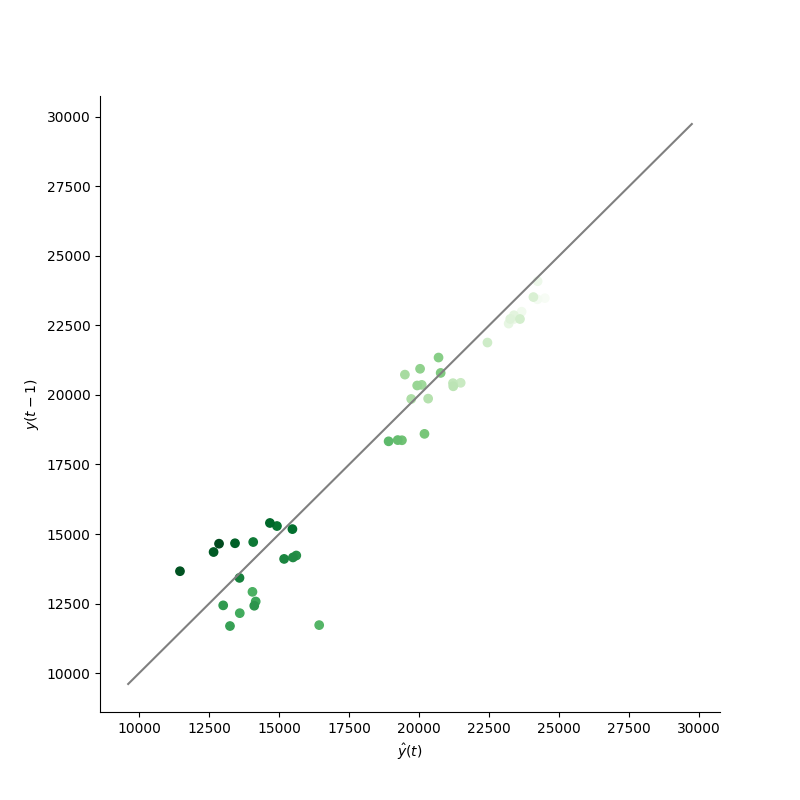
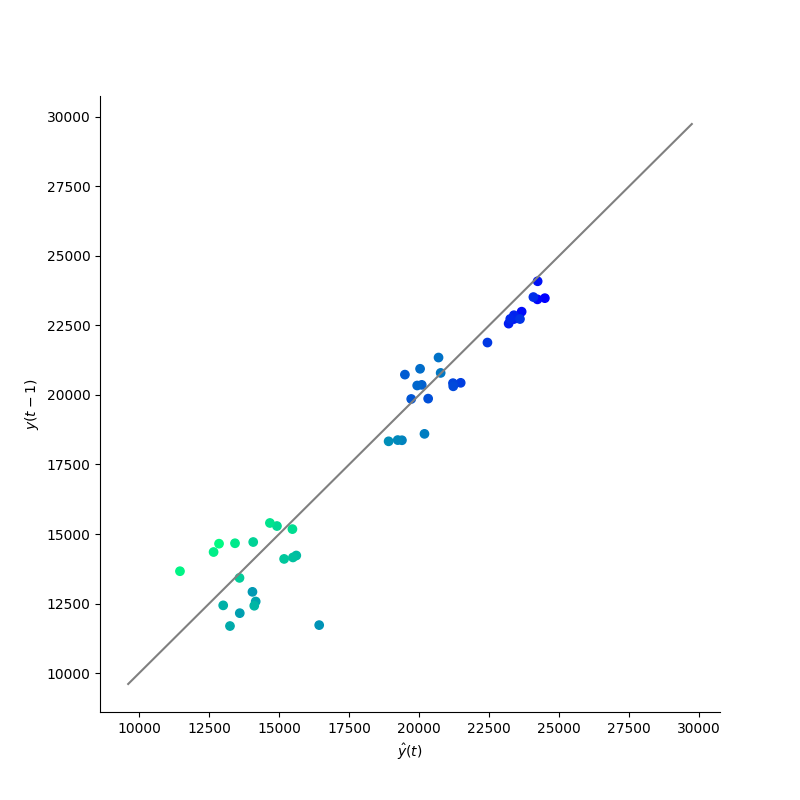
Add files via upload

diff --git a/error_plot.py b/error_plot.py
@@ -5,8 +5,8 @@ from matplotlib import rc
 from matplotlib import cm
 from matplotlib.colors import ListedColormap
 
-y = np.load('y_test.npy')[:-1]
-yhat = np.load('preds_test.npy')[1:]
+y = np.load('y_test.npy')
+yhat = np.load('preds_test.npy')
 dates = np.load('dates.npy')[-y.shape[0]:]
 
 
@@ -15,14 +15,18 @@ break_1 = 125
 break_2 = 300
 break_3 = 350
 fig, ax = plt.subplots(figsize=(12, 8))
-ax.plot(dates[:break_1], y[:break_1],c='blue')
-ax.plot(dates[break_1-1:break_2], y[break_1-1:break_2],c='green')
+ax.plot(dates[:break_1], y[:break_1], c='blue')
+ax.plot(dates[break_1-1:break_2], y[break_1-1:break_2], c='green')
 ax.plot(dates[break_2-1:break_3], y[break_2-1:break_3], c='blue')
 ax.plot(dates[break_3-1:], y[break_3-1:], c='green')
 ax.plot(dates, yhat, c='red')
 ax.spines['right'].set_visible(False)
 ax.spines['top'].set_visible(False)
 plt.savefig('split_sequence.png', transparent=True)
+
+y = np.load('y_test.npy')[:-1]
+yhat = np.load('preds_test.npy')[1:]
+dates = np.load('dates.npy')[-y.shape[0]:]
 
 ccoeff = np.corrcoef(yhat.flatten(), y.flatten())[1, 0].round(4)
 
@@ -34,7 +38,7 @@ vals[:, 1] = np.linspace(1,0.2658, N)
 vals[:, 2] = np.linspace(1,0.5696, N)
 newcmp = ListedColormap(vals)
 
-cm = plt.cm.get_cmap('Blues')
+cm = plt.cm.get_cmap('summer')
 
 yhat_break = yhat[:break_1]
 y_break = y[:break_1]
@@ -48,7 +52,7 @@ ax.spines['top'].set_visible(False)
 plt.savefig('error_plot_CNN_up1.png',transparent=True)
 plt.show()
 
-cm = plt.cm.get_cmap('Greens')
+cm = plt.cm.get_cmap('winter')
 yhat_break = yhat[break_1:break_2]
 y_break = y[break_1:break_2]
 fig, ax = plt.subplots(figsize=(8, 8))
@@ -61,7 +65,7 @@ ax.spines['top'].set_visible(False)
 plt.savefig('error_plot_CNN_down1.png', transparent=True)
 plt.show()
 
-cm = plt.cm.get_cmap('Blues')
+cm = plt.cm.get_cmap('summer')
 yhat_break = yhat[break_2-1:break_3]
 y_break = y[break_2-1:break_3]
 fig, ax = plt.subplots(figsize=(8, 8))
@@ -74,7 +78,7 @@ ax.spines['top'].set_visible(False)
 plt.savefig('error_plot_CNN_up2.png', transparent=True)
 plt.show()
 
-cm = plt.cm.get_cmap('Greens')
+cm = plt.cm.get_cmap('winter')
 yhat_break = yhat[break_3-1:]
 y_break = y[break_3-1:]
 fig, ax = plt.subplots(figsize=(8, 8))
